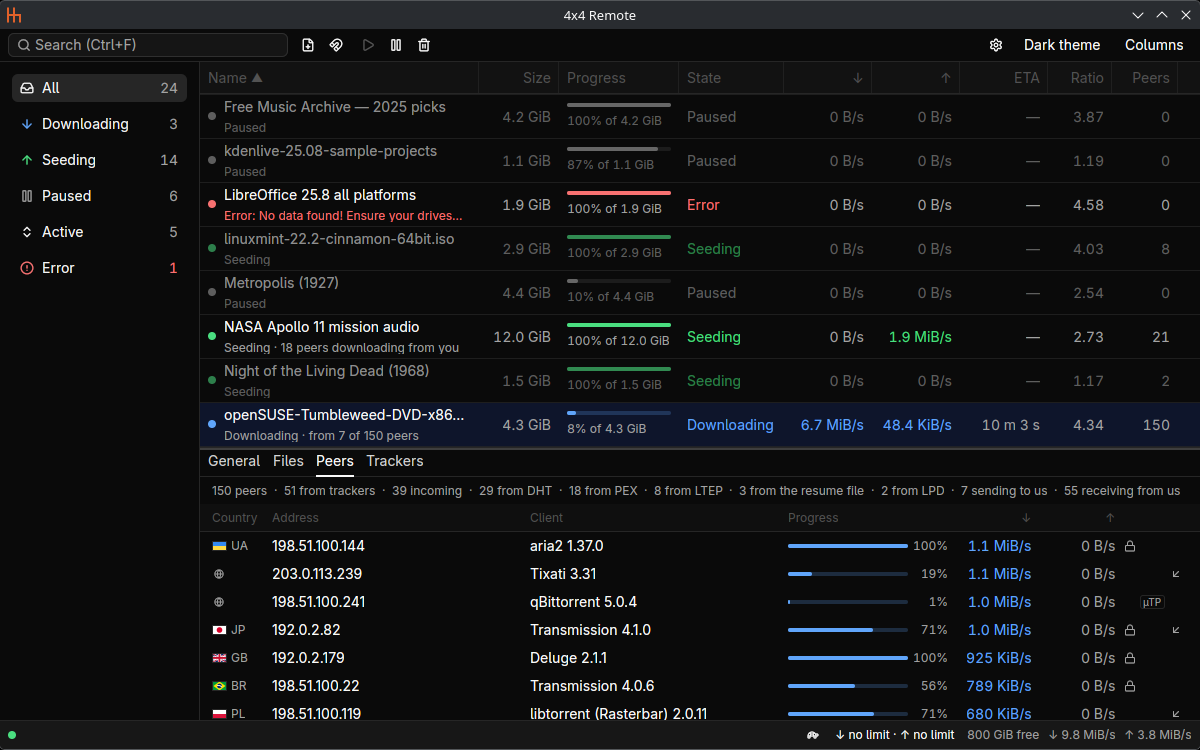
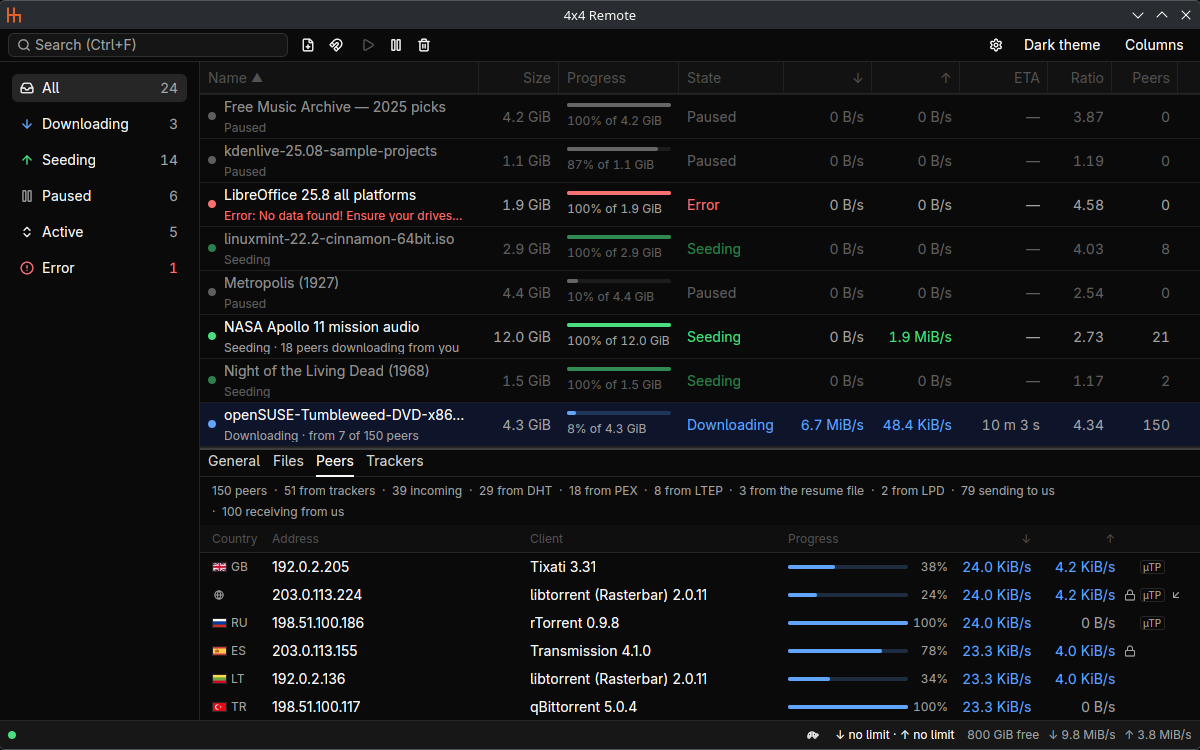
docs: show peers from GB, RU, ES, LT and TR in the Peers screenshot
The demo puts the address blocks of the peers the shot shows in these
countries, and the Peers tab picture is retaken from it.

diff --git a/crates/x4-app/src/bin/x4-synthetic/daemon/peers.rs b/crates/x4-app/src/bin/x4-synthetic/daemon/peers.rs
@@ -44,23 +44,23 @@ const V4_COUNTRIES: [Option<&str>; 24] = [
     Some("DE"),
     Some("JP"),
     Some("KR"),
+    Some("LT"),
     Some("FI"),
     Some("GB"),
-    Some("FR"),
     Some("NL"),
     Some("BR"),
     Some("CA"),
     Some("SE"),
+    Some("TR"),
     Some("PL"),
-    Some("UA"),
-    Some("ES"),
+    Some("RU"),
     Some("IT"),
     Some("EU"),
     Some("AU"),
     Some("IN"),
     Some("CN"),
     Some("CH"),
-    Some("TR"),
+    Some("ES"),
     Some("MX"),
     Some("PT"),
     None,
